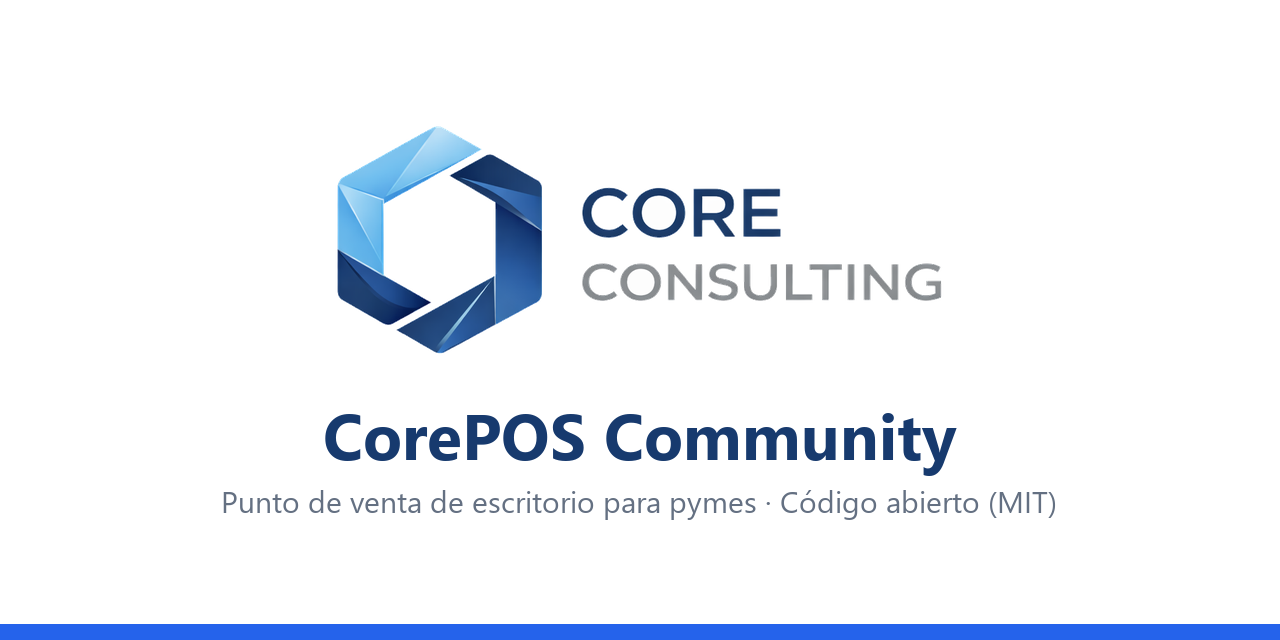
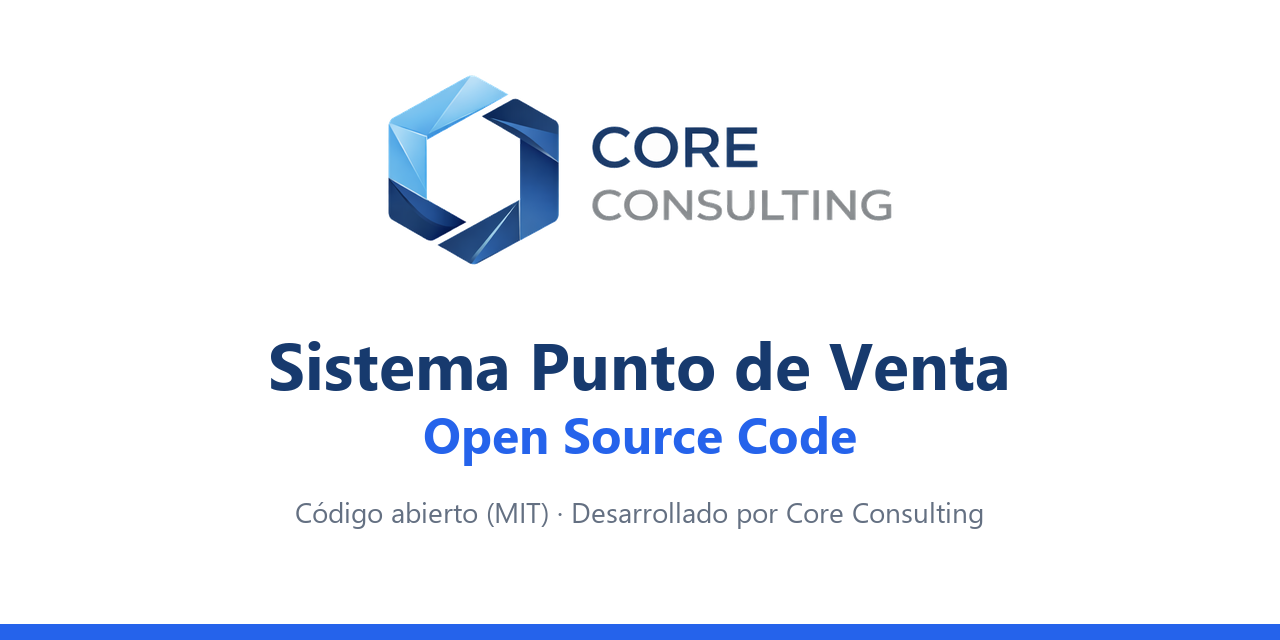
Renombrar la version publica a 'Sistema Punto de Venta Open Source Code'
- README: titulo y seccion Acerca de (la edicion comercial sigue siendo CorePOS)
- Login: pie con el nuevo nombre
- Imagen para compartir y captura del login actualizadas

Changed region(s): [[0.1875, 0.125, 0.8125, 0.75], [0.1562, 0.75, 0.8125, 0.8438]]

diff --git a/app/ui/login_dialog.py b/app/ui/login_dialog.py
@@ -176,7 +176,7 @@ class LoginDialog(QDialog):
         btn_login.setMinimumHeight(46)
         btn_login.clicked.connect(self.iniciar_sesion)
 
-        ayuda = QLabel("CorePOS Community")
+        ayuda = QLabel("Sistema Punto de Venta Open Source Code")
         ayuda.setAlignment(Qt.AlignmentFlag.AlignCenter)
         ayuda.setWordWrap(True)
         ayuda.setObjectName("ayudaLogin")

diff --git a/README.md b/README.md
@@ -7,7 +7,7 @@
   </a>
 </p>
 
-# CorePOS Community
+# Sistema Punto de Venta Open Source Code
 
 ![Python](https://img.shields.io/badge/Python-3.12+-3776AB?logo=python&logoColor=white)
 ![PySide6](https://img.shields.io/badge/UI-PySide6-41CD52?logo=qt&logoColor=white)
@@ -97,8 +97,9 @@ instalador ni soporte. Esas funciones pertenecen a la edición comercial.
 - [ ] Internacionalización (otros países / impuestos)
 
 ## Acerca de Core Consulting
-CorePOS es una aplicación desarrollada por **[Core Consulting](https://coreconsulting.cl)**. Esta edición
-comunitaria es gratuita y de código abierto (MIT). La **edición comercial** agrega facturación electrónica
+El **Sistema Punto de Venta Open Source Code** es una aplicación desarrollada por
+**[Core Consulting](https://coreconsulting.cl)**. Esta versión es gratuita y de código abierto (MIT).
+Su edición comercial, **CorePOS**, agrega facturación electrónica
 SII (boleta, factura, guía de despacho y notas de crédito), licenciamiento por equipo, instalador para
 Windows, historial de ventas con anulación y reimpresión, registro de auditoría, conciliación de tarjetas
 y soporte. Más información en [coreconsulting.cl](https://coreconsulting.cl).
